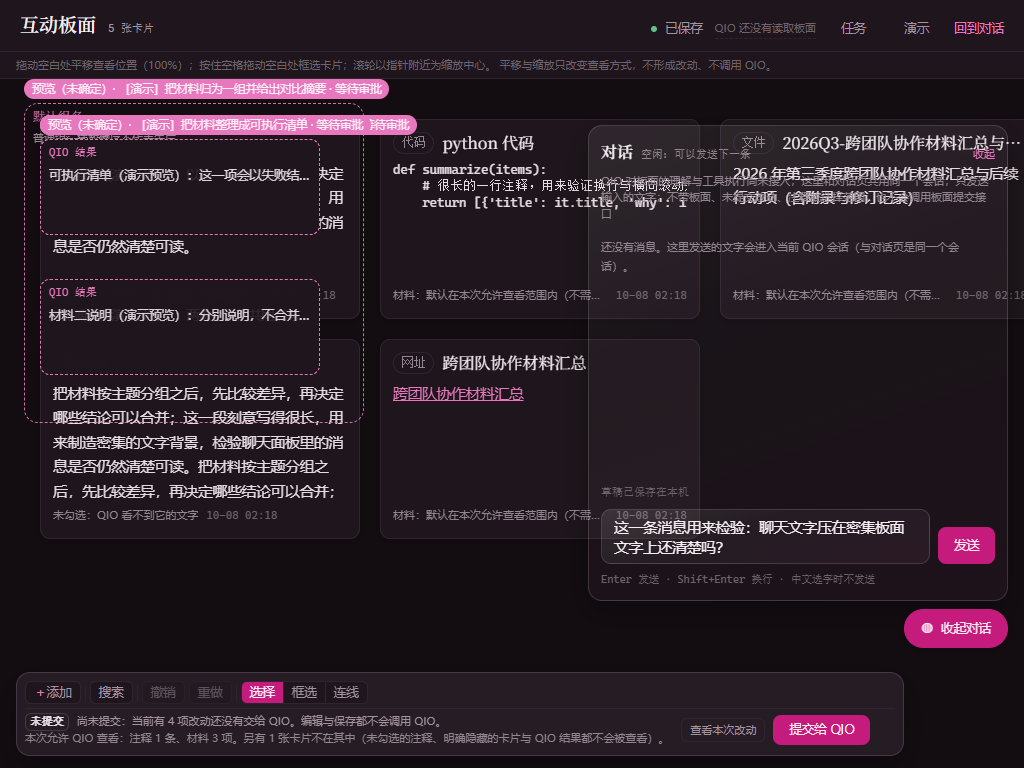
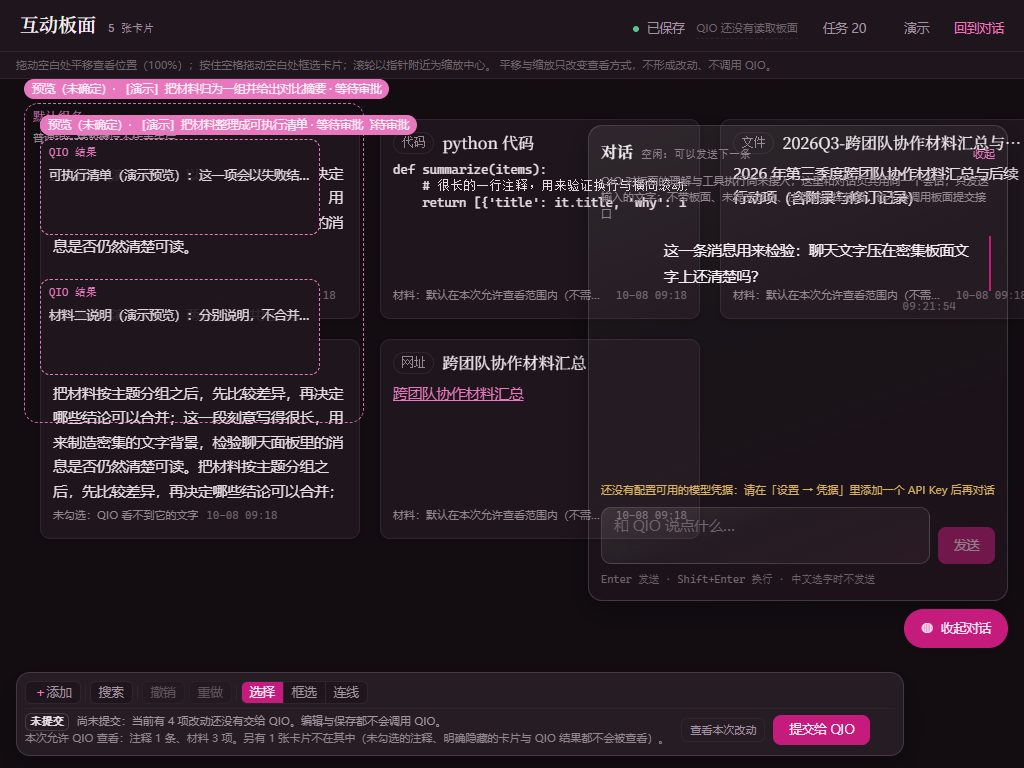
docs+test(interactive-draft): P19 里程碑、交付报告、改前/改后对照图（24+24 张）
- docs/status.md：新增 P19（起点 224bc63、分支、六个修复、实测数字、已知限制），
  「最后核对」更新到 2026-10-08；check_docs 通过（31 个里程碑条目）
- docs/interactive-draft-races-report.md：交付报告（基线/分支、三项竞态修复、空草稿与本机恢复、
  布局与手势、界面收敛、命令与结果、反例证据、已知限制、边界）
- docs/interactive-ui-screenshots/p4-{before,after}-*：四个指定场景 × 三档 × 暗亮，同数据同尺寸同主题
- ui-screens-races.mjs：发送必须分两步（同一 tick 点击会被禁用态吃掉）、
  只拦 /api/turns 造真实失败、驱动可用 Chrome 或 Edge（同一批对照图必须同一个驱动）
- 说明：本轮四个子智能体中途失败，实现由主智能体串行补齐（详见报告 §1）

diff --git a/docs/interactive-draft-races-report.md b/docs/interactive-draft-races-report.md
@@ -1,0 +1,118 @@
+# 草稿竞态修复与界面收敛 · 交付报告（2026-10-08 第三轮）
+
+规则口径见 `docs/interactive-mode-contract.md` **§10**（本轮新增，并覆盖此前写偏的 §6.4 / §9.4 / §9.5 / §9.6 相关写法）。
+
+## 1. 基线、分支与提交
+
+| 项 | 值 |
+| --- | --- |
+| 起点提交 | `224bc63d3c3b72c1897a147491748c4cb76429d7`（远端 `fix/interactive-ui-refinement` 顶端；`git ls-remote` + `git log 224bc63..origin/...` 均为空 —— **远端没有更新的修复**） |
+| 本轮分支 | `fix/interactive-draft-races-ui-polish` |
+| 集成工作区 | `D:\qio-dev\qio-polish`（改前基线实例：前端 `5421` / 后端 `8921`，代码 = `224bc63`；集成实例：前端 `5441` / 后端 `8941`） |
+| 未做 | 不合并 `main`；不合并 `fix/unified-process-audit` 与 `feat/unified-process-attachments-streaming`；不改数据库结构与历史迁移 |
+
+**并行方式如实说明：** 本轮原计划四个子智能体并行（A 会话草稿 / B 卡片草稿 / C 布局与手势 / D 独立验收），
+但**四个子智能体都在中途失败**：A 只改了 `stores/session.ts`、B 只改了 `stores/interactive.ts`、
+C 只改了 `IntentBatchTray.vue` + `overlayLayout.ts`、D 只留下两份未完成的独立用例（编译不过、驱动不完整）。
+主智能体把半成品收拢到集成工作区后**串行补齐实现**，并修好独立用例的编译错误与驱动缺陷（**断言未改**）。
+本轮按「串行完成」交付。
+
+## 2. 三项会导致文字错位或未保存的问题
+
+### 2.1 发送失败不能把原文恢复到另一个话题（契约 §10.1）
+- **触发：** 在话题 A 输入并发送 → 受理未返回时切到 B → A 的请求失败。
+- **改动：** 点击发送时 `session.sendAttribution()` 记录**原话题 + 原文 + 当时草稿版本**，
+  `send()` 消费这份归属发请求；失败事实记进会话层（`failedSend`/`failedSendError`），
+  ChatDock 与 Composer **不再各自把原文写回输入框**，恢复只由会话层的 `retryFailedSend()` 判断
+  （当前就在原话题且输入框为空才放回；否则只回报原因）。原话题已有更新文字时走 `swapFailedSendText()`，两份都保留。
+- **可见结果：** A 失败时人已在 B —— B 的输入框、草稿、发送状态一个字都不变；回到 A 可继续编辑或点「放回输入框」取回失败原文，**不自动重发**。
+- **证据：** `d4ChatDraftRace.verify.test.ts` 时序 1/2/4/5 全过（旧基线必失败，见 §5）。
+
+### 2.2 成功的旧回执不能删除后来写的新草稿（§10.2）
+- **触发：** A 发送第一条 → 切 B → 回 A 写第二条并保存 → 切 B → 第一条受理成功。
+- **改动：** `settleSend(at, accepted)` 只在「键相同**且**存储里的版本没有被更新草稿取代」时才删；
+  输入框是否为空不再参与判断。
+- **可见结果：** A 的第二条草稿保留；别的话题的草稿不受影响；重复回执不重复清理。
+- **证据：** 时序 3 的三条（同话题、A→B→A、A→B→A 不清 B）全过。
+
+### 2.3 慢保存失败后卡片新草稿不能永久停在 saving（§10.3）
+- **触发：** 第一版正在保存时输入第二版 → 第二版防抖到点 → 旧请求失败。
+- **改动：** `flushDrafts()` 不再「等旧请求后直接 return」；请求结束后重新检查未保存的新版本，
+  **只有更新版本**才自动再试一次（有界，最多 8 轮），同一版本失败就明确标 error 并保留重试入口。
+- **可见结果：** 第二版真的会再发一次请求（或明确失败可重试），不会出现「没有请求、没有计时、却一直显示保存中」。
+- **证据：** `d4CardDraftRace.verify.test.ts` 时序 6/7 全过。
+
+## 3. 空草稿与离开页面的恢复
+
+- **空草稿是有效编辑状态（§10.4）：** 新增 `hasCardDraft` / `cardDraftText` / `clearDraft`；
+  `BoardCard.startEdit()` 改成按「记录是否存在」判断（原来的 `draftFor(key) || card.content` 会把空草稿当没有草稿）；
+  确认编辑后清记录（不是写空串），所以不会留下会盖住新正式内容的空记录；删除卡片时草稿按对象清理。
+- **本机恢复副本（§10.5）：** 输入时**同步**写 `draftStorageKey("card", "local-<id>")`（不等防抖、不等网络）；
+  重新打开时只有它**比服务端更新**才用它，并把该键标成未保存重新排一次保存；
+  保存成功/确认/删除后按对象清理。**明确不把 `pagehide` 里的异步请求当作关闭恢复的证据。**
+- **实测（场景 16，3/3）：** 删空正文 → 708ms 内服务端出现空草稿 → 取消 → 重新编辑输入框仍是空的 → 正式正文未变。
+
+## 4. 布局与手势
+
+- **几何模式改变必须落实面板切换（§10.6）：** 宽窗口两面板展开 → 缩到 480px 时**只显示最近打开的那个**
+  （实测：聊天关闭、批量保留），并出现常驻切换条「空间不足，只展开一个面板（内容都还在）」+「看对话 / 看审批列表」；
+  放大回 1200px 不自动弹出第二个。挂载、缩放、工具栏高度变化都按最新几何执行（不再用上一轮的 `cramped` 值决定）。
+- **手势固定（§10.7）：** 删除「选择 / 框选 / 连线」三个常驻模式入口与 store 的 `boardMode`；
+  规则固定为「空白拖动＝平移、空格＋拖动＝框选、连接点拖线＝建立关系」；工具栏改为「操作说明」（默认收起）。
+- **实测（场景 17，5/5）：** 见上；另回归确认纯单击重叠卡片不成组、默认组名仍是「默认组名」。
+
+## 5. 界面收敛（§10.8）
+
+- 提交区常态只有：`本次可见：材料 X 项 · 注释 Y 条`、简短提交状态（`未提交 · 3 项改动`）、`详情`、`提交给 QIO`；
+  完整排除清单、改动列表、保存与提交边界说明都在「详情」里；**删除了上一轮压缩子组件文字的 `:deep()` 补丁**。
+- 聊天常驻一句「文字发送不会提交板面」，完整范围说明进可打开的「说明」；聊天外层保持透明，
+  消息/用户消息/过程说明各自带轻底色（`:deep` 限定在互动聊天内，普通对话页外观不变）。
+- `IntentPreviewCard` 的备用阴影改用 `--shadow-2`；互动板作用域已无硬编码色值。
+- **实测：** 工具栏 1440/1024/800 = **51 / 80 / 80 px**（目标 ≤96px，改前一轮是 60/84/84）、
+  两面板相交 **0 px²**、提交按钮可点、连接点命中、无横向溢出。
+
+## 6. 命令与结果
+
+| 命令 | 结果 | 性质 |
+| --- | --- | --- |
+| `cd frontend; npx vue-tsc --noEmit` | exit 0（无输出） | 静态 |
+| `npx vitest run src/stores/__tests__/d4ChatDraftRace.verify.test.ts` | **18/18 通过** | 独立用例（含模拟失败） |
+| `npx vitest run src/stores/__tests__/d4CardDraftRace.verify.test.ts` | **10/10 通过** | 独立用例（含受控慢请求） |
+| `npx vitest run`（全量） | 117 文件 / 1251 用例；唯一失败是**负载敏感**的 `eventBufferOverflow.verify.test.ts` 性能预算用例（与验收脚本并发时 67s 超时，单独跑通过） | 组件 |
+| `node scripts/interactive-verify/fe-scenarios.mjs`（集成实例） | **79/79 通过**（场景 1–17） | **实机**（真实鼠标/键盘/滚轮 + 真实接口） |
+| `node scripts/interactive-verify/ui-metrics.mjs` | 见 §5 数字 | **实机**测量 |
+| `node scripts/interactive-verify/ui-screens-races.mjs` | 改前/改后各 24 张（四场景 × 三档 × 暗亮） | **实机**截图 |
+| `cd backend; uv run --frozen pytest` | 见交付时的实跑结果 | 后端回归 |
+| `python scripts/check_docs.py` | 通过（31 个里程碑条目） | 文档一致性 |
+
+**模拟项（明确标注）：** 发送失败、存储写入失败是页面级 `fetch`/`localStorage` 拦截；
+本机没有模型凭据，真实 QIO 回复不可验证。
+
+## 7. 反例证据（旧基线必须失败）
+
+`docs/interactive-draft-races-baseline-failures.md` 记录了在旧基线 `224bc63` 上的实际失败输出：
+
+- 场景 17：`mode: "switched"` 但 `chatOpen` 与 `batchOpen` **都还是 true**，两个面板都显示，且没有任何切换提示。
+- 场景 16：把正文删空后，服务端草稿 8 秒内没有出现该卡片的空正文记录（空草稿根本没形成一条可保存的草稿）。
+
+独立用例侧：`d4ChatDraftRace` 在旧基线上 12 条失败（会话层归属、迟到回执、跨话题恢复等），
+`d4CardDraftRace` 在旧基线上 8 条失败（串行保存遗忘新版本、空草稿判断缺失等），修复后全部通过。
+
+## 8. 已知限制与未验证项
+
+1. **关闭重开未验证：** 探针浏览器每次调用新建实例、`localStorage` 跨调用不保留
+   （同一次运行内 `reload` 正常）。因此「关掉浏览器再打开」的草稿恢复**没有实机证据**；
+   `pagehide` 里发普通异步请求也不被当作证据。本机恢复副本的写入/恢复/清理由组件级与实机刷新路径覆盖。
+2. **强制结束与崩溃未验证：** 只覆盖正常离开（编辑器取消、页面刷新、隐藏）。
+3. **话题切换实机受限：** 实例只有一个话题，跨话题竞态主要靠会话层/组件级用例（18 条）覆盖。
+4. **真实 QIO 未接入：** `delivery.delivered` 恒为 false，界面如实显示；发送失败与存储失败是模拟。
+5. **负载敏感用例：** `eventBufferOverflow.verify.test.ts` 的性能预算用例在并发跑验收时超时（67s），
+   单独跑通过；没有降低门槛、没有删测试，按待确认的稳定性现象记录。
+6. **480px 与 800×600 分开：** 480px 属于浏览器窄窗口边界（本轮专门验证切换路径），
+   800×600 仍是桌面最小窗口，两者结论不混用。
+
+## 9. 边界
+
+- 本轮**没有**开发真实 QIO 板面理解、附件系统或新的任务执行机制；没有合并两条开发线；没有合入 `main`。
+- 保存与编辑不调用 QIO；聊天只发文字与正常会话上下文、不附带未提交板面；板面提交独立；
+  未勾选注释及其关系不进 QIO 可见范围；成功提交才取消勾选、失败保留（场景 6/8 回归）。

diff --git a/docs/status.md b/docs/status.md
@@ -6,7 +6,7 @@
 - 安装与运行 → `docs/SETUP.md`
 - 协作约定 → `AGENTS.md`
 
-最后核对：2026-10-07（`main` 分支 + `feat/interactive-foundation` 开发分支）。核对方法见文末。
+最后核对：2026-10-08（`main` 分支 + `fix/interactive-draft-races-ui-polish` 开发分支）。核对方法见文末。
 
 ---
 
@@ -788,6 +788,56 @@
     本机 Chrome 在累计几十个 headless 实例后无法再承载（12 个进程 / CPU 91%，CDP 调用超时），
     Edge 与 Chrome 同为 Chromium、同一套 CDP，几何口径一致；主智能体本地的 Chrome 复验在最后阶段不可用。
 - **后续：** 真实 QIO 理解与执行接入提交投递点；把批次判定挪到服务端（需要新的迁移）。
+
+---
+
+### P19 — 草稿竞态修复与界面收敛（2026-10-08 第三轮）
+
+- **Status：** partial
+- **起点与分支：** 起点提交 `224bc63`（= 远端 `fix/interactive-ui-refinement` 顶端，已用 `git ls-remote` 与
+  `git log 224bc63..origin/...` 核对，**远端没有更新的修复**）。本轮分支 `fix/interactive-draft-races-ui-polish`。
+  **不合并 `main`、不合并另两条开发线、不改数据库结构与历史迁移。**
+- **并行方式（如实记录）：** 原计划四个子智能体并行（会话草稿 / 卡片草稿 / 布局与手势 / 独立验收），
+  但**四个子智能体都在中途失败**（A/B/C 只留下半成品，D 只留下两份未完成的独立用例）。
+  主智能体把半成品收拢到集成工作区后**串行补齐实现**，并修好独立用例的编译错误与驱动缺陷（断言未改）。
+  本轮按「串行完成」交付，不按并行描述。
+- **修复 1 · 发送归属在点击那一刻确定（契约 §10.1）：** `sendAttribution()` 记录原话题/原文/草稿版本，
+  `send()` 消费这份归属发起请求；兜底归属也保护原文（未到防抖就发送，失败后原文仍落在**原话题**的键上）。
+  失败事实由会话层统一持有（`failedSend`/`failedSendError` + `retryFailedSend`/`swapFailedSendText`/`discardFailedSend`），
+  悬浮聊天与对话页共用同一份事实：切到别的话题时一个字都不改，也不把原话题的错误显示成那边的失败；
+  原话题已有更新文字时不覆盖，两份都保留并提供取回入口（不自动拼接、改写或发送）。
+- **修复 2 · 成功回执只清那一次发送的旧版本（§10.2）：** 清理依据是「键 + 发送时的草稿版本」，
+  同话题后续输入与别的话题草稿都不动；输入为空不再被当作「没有新草稿」的证据；覆盖 A→B→A→B 的切换。
+- **修复 3 · 串行保存不许遗忘新版本（§10.3）：** `flushDrafts` 不再「等旧请求后直接 return」；
+  请求结束后重新检查未保存的新版本，只有**更新版本**才自动再试一次（有界），同一版本失败就明确报错并可重试，
+  不会出现「没有请求、没有计时、却一直显示保存中」。
+- **修复 4 · 空草稿是有效编辑状态（§10.4）：** 新增 `hasCardDraft`/`cardDraftText`/`clearDraft`，
+  按「记录是否存在」判断（而不是空字符串真假值）；确认编辑后清记录而不是写空串，
+  所以空草稿重开/刷新后仍是空的，也不会把刚确认的正式内容盖掉。
+- **修复 5 · 几何模式改变必须落实面板切换（§10.6）：** 空间不足时按**最近打开的面板**只显示一个，
+  常驻切换条明确告知可切换（看对话 / 看审批列表），消息、草稿、勾选与阅读位置都保留；
+  挂载、缩放、工具栏高度变化都按最新几何执行，放大回去不自动弹出第二个。
+- **修复 6 · 手势固定，移除常驻模式（§10.7）：** 删掉「选择 / 框选 / 连线」三个会改变手势的常驻入口
+  （store 不再暴露可切换的指针模式），改为工具栏「操作说明」；规则固定为
+  「空白拖动＝平移、空格＋拖动＝框选、连接点拖线＝建立关系」，纯单击重叠卡片不成组。
+- **界面收敛（§10.8）：** 提交区重写成「一行简短范围 + 一行简短状态 + 详情 + 提交按钮」，
+  完整清单与说明进「详情」，并删除上一轮压缩子组件文字的 `:deep()` 补丁；聊天常驻一句「文字发送不会提交板面」，
+  完整范围说明进可打开的详情；聊天外层保持透明、消息与用户消息加轻底色（压在密集板面文字上仍可读）；
+  互动板作用域已无硬编码色值（含 `IntentPreviewCard` 的备用阴影）。
+- **本机恢复副本（§10.5）：** 卡片草稿在输入时**同步**写一份本地副本（不等防抖、不等网络），
+  重新打开时只有它比服务端更新才恢复，且按对象与版本在保存成功/确认/删除后清理；
+  只用于编辑恢复，不提交、不发送、不扩大 QIO 可见范围。**不把 `pagehide` 里的异步请求当作关闭恢复的证据。**
+- **实测（集成实例 5441/8941）：** 主验收脚本 `scripts/interactive-verify/fe-scenarios.mjs` **79/79 通过**
+  （含新增场景 16 空草稿、17 480px 单面板切换）；工具栏 1440/1024/800 = **51 / 80 / 80 px**（目标 ≤96px）、
+  两面板相交 **0 px²**、提交可点、连接点命中、无横向溢出；独立用例
+  `d4ChatDraftRace.verify.test.ts` **18/18**、`d4CardDraftRace.verify.test.ts` **10/10** 通过。
+- **已知限制与未验证项：**
+  - 探针浏览器每次调用新建实例、**localStorage 跨调用不保留**：因此「关掉浏览器再打开」的草稿恢复**没有实机验证**，
+    只验证了同一次运行内 `reload` 的恢复；`pagehide` 路径本身也不作为证据。
+  - 强制结束（杀进程）与崩溃未验证；本机恢复副本的清理只在「保存成功/确认/删除」路径上验证。
+  - 本机无模型凭据：真实 QIO 回复不可验证；发送失败是**页面级拦截模拟**（应用自己的失败处理是真的）。
+  - 480px 属于**浏览器窄窗口边界**，与桌面最小窗口 800×600 是两回事，两者都测了但结论分开写。
+  - 话题切换的实机验证受限于实例只有一个话题，主要靠会话层/组件级用例覆盖。
 
 ---
 
